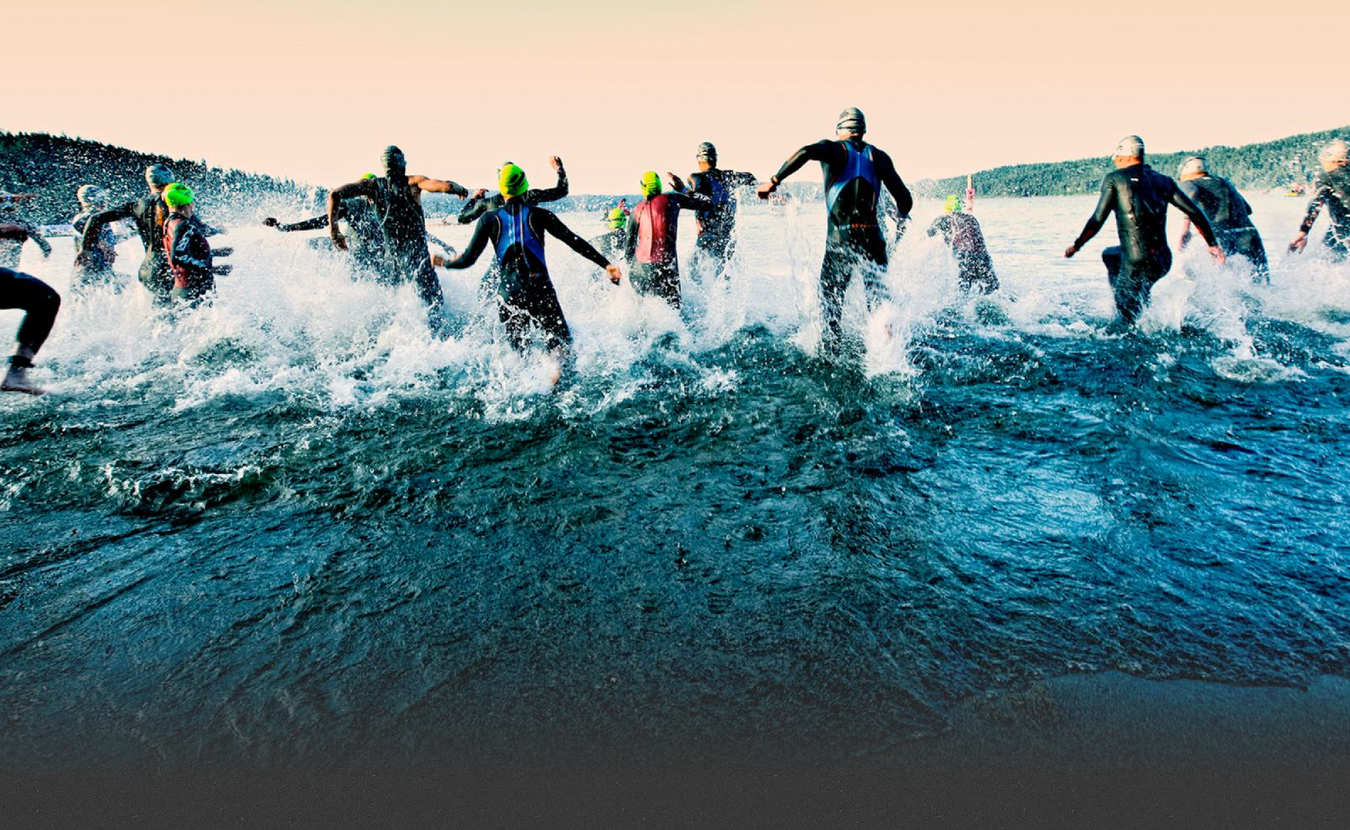
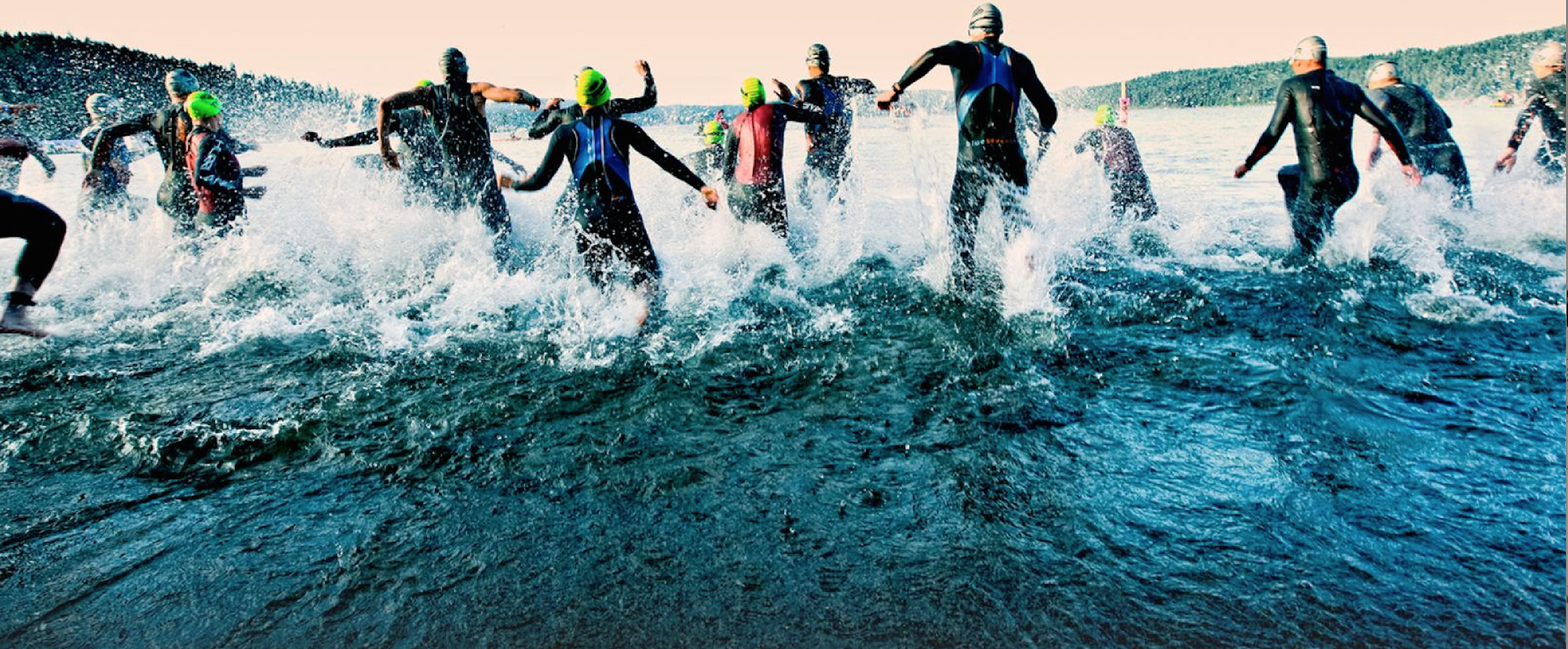
delete old images and tidy up CSS

diff --git a/www/assets/css/style.css b/www/assets/css/style.css
@@ -1,254 +1,212 @@
 body {
-	max-width: 2000px;
-	width: 100%;
-	margin: 0 auto;
-	font-family: 'Open Sans',sans-serif;
-	font-size: 18px;
+    max-width: 2000px;
+    width: 100%;
+    margin: 0 auto;
+    font-family: 'Open Sans', sans-serif;
+    font-size: 18px;
 }
-
 #header {
-	height :70px;
-	width: 80%;
-	float:left;
-	padding: 0 10%;
+    height: 70px;
+    width: 80%;
+    float: left;
+    padding: 0 10%;
 }
-
-#logo, #logo a, #logo a:visited, #logo a:hover{
-	float: left;
-	padding: 20px 0 0 60px;
-	color: #C83527;
-	text-decoration: none;
+#logo, #logo a, #logo a:visited, #logo a:hover {
+    float: left;
+    padding: 20px 0 0 60px;
+    color: #C83527;
+    text-decoration: none;
 }
-
 .heading {
-	font-size: 24px;
-	font-weight: bold;
-	font-family: 'Roboto', sans-serif;
+    font-size: 24px;
+    font-weight: bold;
+    font-family: 'Roboto', sans-serif;
 }
-
-h3{
-	font-size: 28px;
-	font-weight: bold;
-	font-family: 'Roboto', sans-serif;
+h3 {
+    font-size: 28px;
+    font-weight: bold;
+    font-family: 'Roboto', sans-serif;
 }
-
-.menu.right{
-	float:right;
+.menu.right {
+    float: right;
 }
-
 .menu ul {
-	list-style: none;
-	margin: 0;
+    list-style: none;
+    margin: 0;
 }
-
-.menu ul li{
-	float: left;
-	position: relative;
-	/*text-transform: uppercase;*/
-	height: 70px;
-	padding: 0 10px;
+.menu ul li {
+    float: left;
+    position: relative;
+    /*text-transform: uppercase;*/
+    height: 70px;
+    padding: 0 10px;
 }
-
-.menu ul li:hover{
-	background-color: #C83527;
+.menu ul li:hover {
+    background-color: #C83527;
 }
-
-.menu ul li a{
-	display: block;
-	padding: 20px 0 0;
-	color: #C83527;
-	text-decoration: none;
+.menu ul li a {
+    display: block;
+    padding: 20px 0 0;
+    color: #C83527;
+    text-decoration: none;
 }
-
-.menu ul li a:hover, .menu ul li:hover a{
-	color: #fff;
+.menu ul li a:hover, .menu ul li:hover a {
+    color: #fff;
 }
-
-.menu .button,  menu li.button:hover{
-	background-color: #fff !important;
-	padding: 18px 0 0;
-	height: 52px;
-	margin: 0 5px;
+.menu .button, menu li.button:hover {
+    background-color: #fff !important;
+    padding: 18px 0 0;
+    height: 52px;
+    margin: 0 5px;
 }
-
 .button span {
-	font-size: 16px;
-	color: #fff;
-	background: #137182;
-	border-radius: 5px;
-	display: inline-block;
-	padding: 5px;
+    font-size: 16px;
+    color: #fff;
+    background: #137182;
+    border-radius: 5px;
+    display: inline-block;
+    padding: 5px;
 }
-
 #banner {
-	clear:both;
-	height: 700px;
-	background: url(../images/banner-new.png) no-repeat;
+    clear: both;
+    height: 700px;
+    background: url(../images/banner.png) no-repeat;
 }
-
 #raceform {
-	width: 560px;
-	height: 495px;
-	float: right;
-	margin: 185px 140px 0 0;
-	background: #fff;
-	opacity: 0.9;
-	border-top: 20px solid #C83527;
-	padding: 0 0 0 40px;
-
+    width: 560px;
+    height: 495px;
+    float: right;
+    margin: 185px 140px 0 0;
+    background: #fff;
+    opacity: 0.9;
+    border-top: 20px solid #C83527;
+    padding: 0 0 0 40px;
 }
-
 #raceform h3 {
-	color: #C83527;
-	font-weight: bold;
-	margin: 40px 0;
+    color: #C83527;
+    font-weight: bold;
+    margin: 40px 0;
 }
-
 #raceform p {
-	color: #585959;
+    color: #585959;
 }
-
 #raceform #lines {
-	display: block;
-	border-top: 1px solid #C83527;
-	border-bottom: 1px solid #C83527;
-	height: 5px;
-	width: 93%;
-	margin: 40px 0;
+    display: block;
+    border-top: 1px solid #C83527;
+    border-bottom: 1px solid #C83527;
+    height: 5px;
+    width: 93%;
+    margin: 40px 0;
 }
-
 #raceform h4 {
-	display: block;
-	background-color: #C83527;
-	color: #fff;
-	padding: 10px;
-	width: 345px;
-	margin: 40px 0;
+    display: block;
+    background-color: #C83527;
+    color: #fff;
+    padding: 10px;
+    width: 345px;
+    margin: 40px 0;
 }
-
-#raceform #rf_email{
-	width: 360px;
-	height: 25px;
-	border: 1px solid #C83527;
+#raceform #rf_email {
+    width: 360px;
+    height: 25px;
+    border: 1px solid #C83527;
 }
-
 #raceform #rf_submit {
-	background-color: #137182;
-	color: #fff;
-	text-transform: uppercase;
-	height: 28px;
-	font-size: 14px;
-	font-weight: bold;
-	border-radius: 5px;
-	border: none;
+    background-color: #137182;
+    color: #fff;
+    text-transform: uppercase;
+    height: 28px;
+    font-size: 14px;
+    font-weight: bold;
+    border-radius: 5px;
+    border: none;
 }
-
-#about-content{
-	padding: 0 250px;
-	color: #137182;
+#about-content {
+    padding: 0 250px;
+    color: #137182;
 }
-
 #about h3 {
-	margin: 30px 0;
+    margin: 30px 0;
 }
-
 #ab-content2 h3 {
-	margin: 0;
+    margin: 0;
 }
-
 #about img {
-	float: left;
-	padding-right: 25px
+    float: left;
+    padding-right: 25px
 }
-
-#ab-content1, #ab-content2{
-	clear: both;
-	overflow:auto;
+#ab-content1, #ab-content2 {
+    clear: both;
+    overflow: auto;
 }
-
 #ab-content1 {
-	margin-bottom: 80px;
+    margin-bottom: 80px;
 }
-
 #ab-content2 {
-	padding: 40px 0;
-	border-top: 10px double #137182;
+    padding: 40px 0;
+    border-top: 10px double #137182;
 }
-
 #about-banner {
-	clear: both;
-	height: 400px;
-	background: #F8F8F8;
-	padding: 10px 200px 0;
-	color: #137182;
-	margin: 0;
+    clear: both;
+    height: 400px;
+    background: #F8F8F8;
+    padding: 10px 200px 0;
+    color: #137182;
+    margin: 0;
 }
-
 #about-banner p {
-	width: 100%;
+    width: 100%;
 }
-
 #contact, #contact-logo, #contact-form {
-	float: left;
+    float: left;
 }
-
 #products {
-	width: 600px;
-	color: #BBBBBB;
-	text-align: center;
-	margin: 0 auto;
+    width: 600px;
+    color: #BBBBBB;
+    text-align: center;
+    margin: 0 auto;
 }
-
 .plan {
-	float: left;
-	padding: 0 50px 30px;
-	color: #585959;
-	width: 200px;
+    float: left;
+    padding: 0 50px 30px;
+    color: #585959;
+    width: 200px;
 }
-
 #products h3 {
-	color: #C83527;
+    color: #C83527;
 }
-
 .plan ul, .plan ol {
-	margin: 0;
-	padding: 0;
+    margin: 0;
+    padding: 0;
 }
-
 .price {
-	display: block;
-	padding: 10px 0;
-	font-weight: bold;
+    display: block;
+    padding: 10px 0;
+    font-weight: bold;
 }
-
 .plan button {
-	background:  #C83527;
-	color: #fff;
-	padding: 10px;
-	border-radius: 5px;
-	border: none;
-	font-size: 20px;
+    background: #C83527;
+    color: #fff;
+    padding: 10px;
+    border-radius: 5px;
+    border: none;
+    font-size: 20px;
 }
-
 #footer {
-	clear: both;
-	width: 100%;
-	height: 70px;
-	background-color: #C83527;
+    clear: both;
+    width: 100%;
+    height: 70px;
+    background-color: #C83527;
 }
-
-.menu.left{
-	float:left;
+.menu.left {
+    float: left;
 }
-
-#footer .menu ul li:hover{
-	background-color: #fff;
+#footer .menu ul li:hover {
+    background-color: #fff;
 }
-
-#footer .menu ul li a{
-	color: #fff;
+#footer .menu ul li a {
+    color: #fff;
 }
-
-#footer .menu ul li a:hover, #footer .menu ul li:hover a{
-	color: #C83527;
+#footer .menu ul li a:hover, #footer .menu ul li:hover a {
+    color: #C83527;
 }
